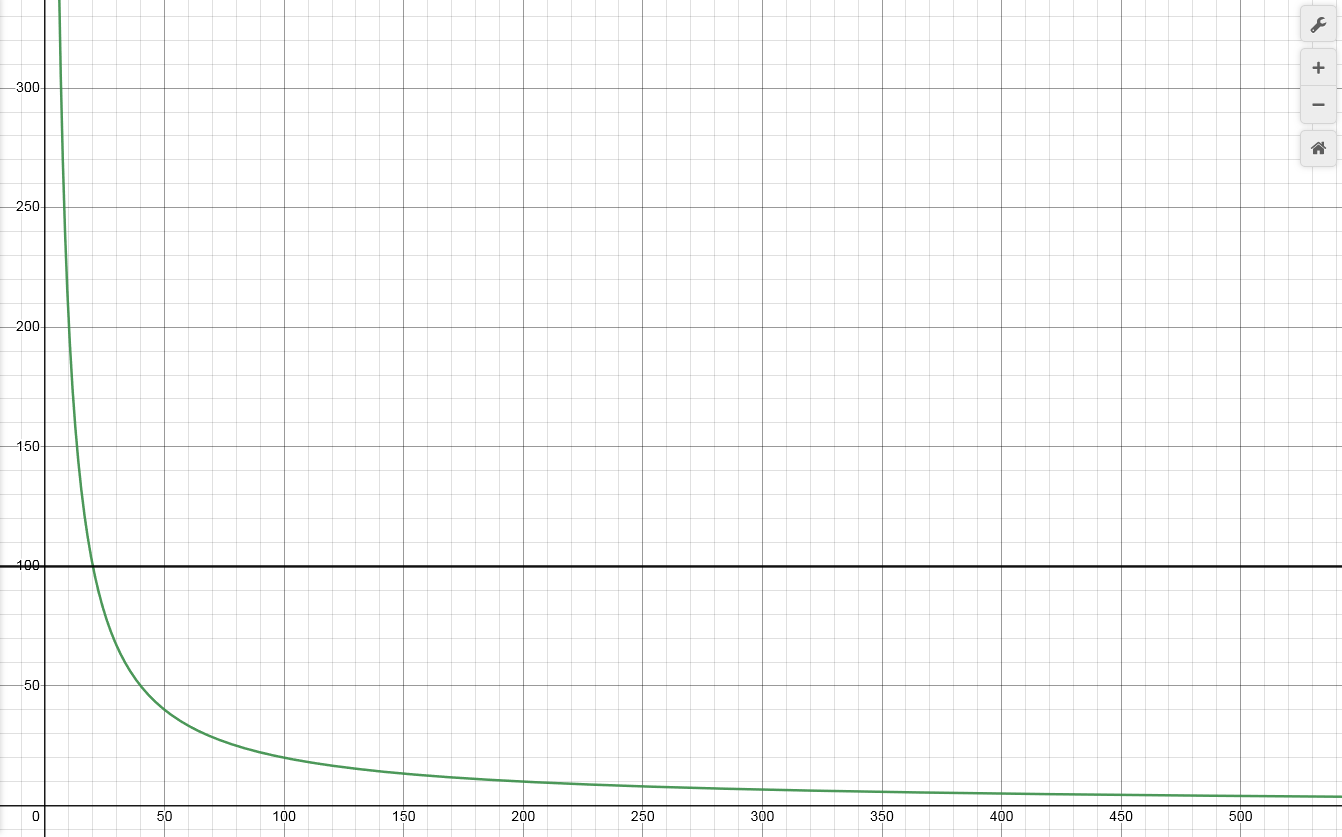
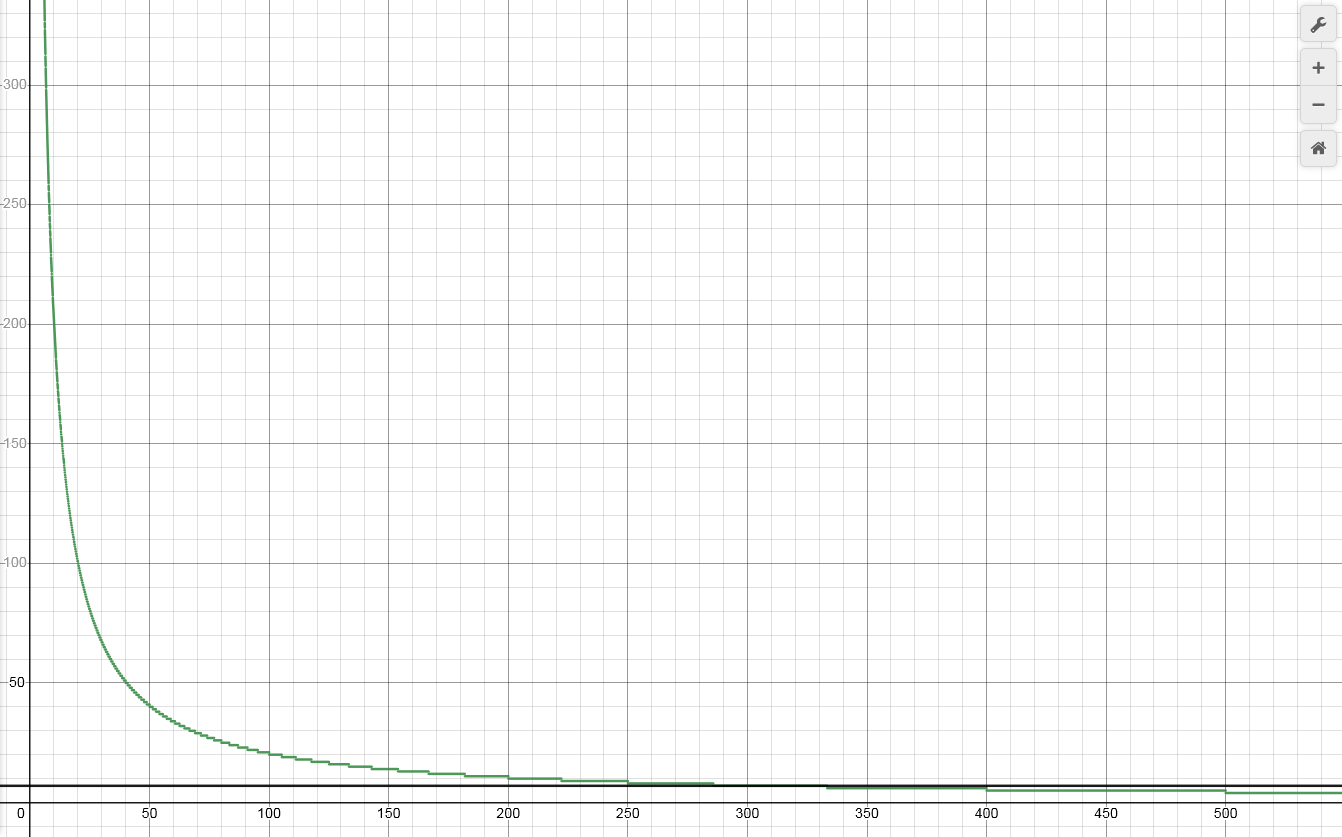
Update graph and math expressions for RVC training info

Changed region(s): [[0.0, 0.0, 1.0, 1.0]]

diff --git a/readme/rvc/training.md b/readme/rvc/training.md
@@ -9,12 +9,12 @@
 
 If you still don't understand, refer to this graph. Click the graph to try for yourself:
 
-<a href='https://www.desmos.com/calculator/dtrzof6mjv' target='_blank'>![graph.png](graph.png)</a>
+<a href='https://www.desmos.com/calculator/yeqx4dmcfm' target='_blank'>![graph.png](graph.png)</a>
 
 **Green**: Epochs required (y) per x minutes of audio
 
-$f(x)=\frac{2000}{x}$
+$f(x)=ceil(\frac{2000}{x})$
 
 **Black**: Epochs required (y) per t<sub>minutes</sub> minutes of audio
 
-$f(x)=\frac{2000}{t_{minutes}}>$
+$f(x)=ceil(\frac{2000}{t_{minutes}})$
